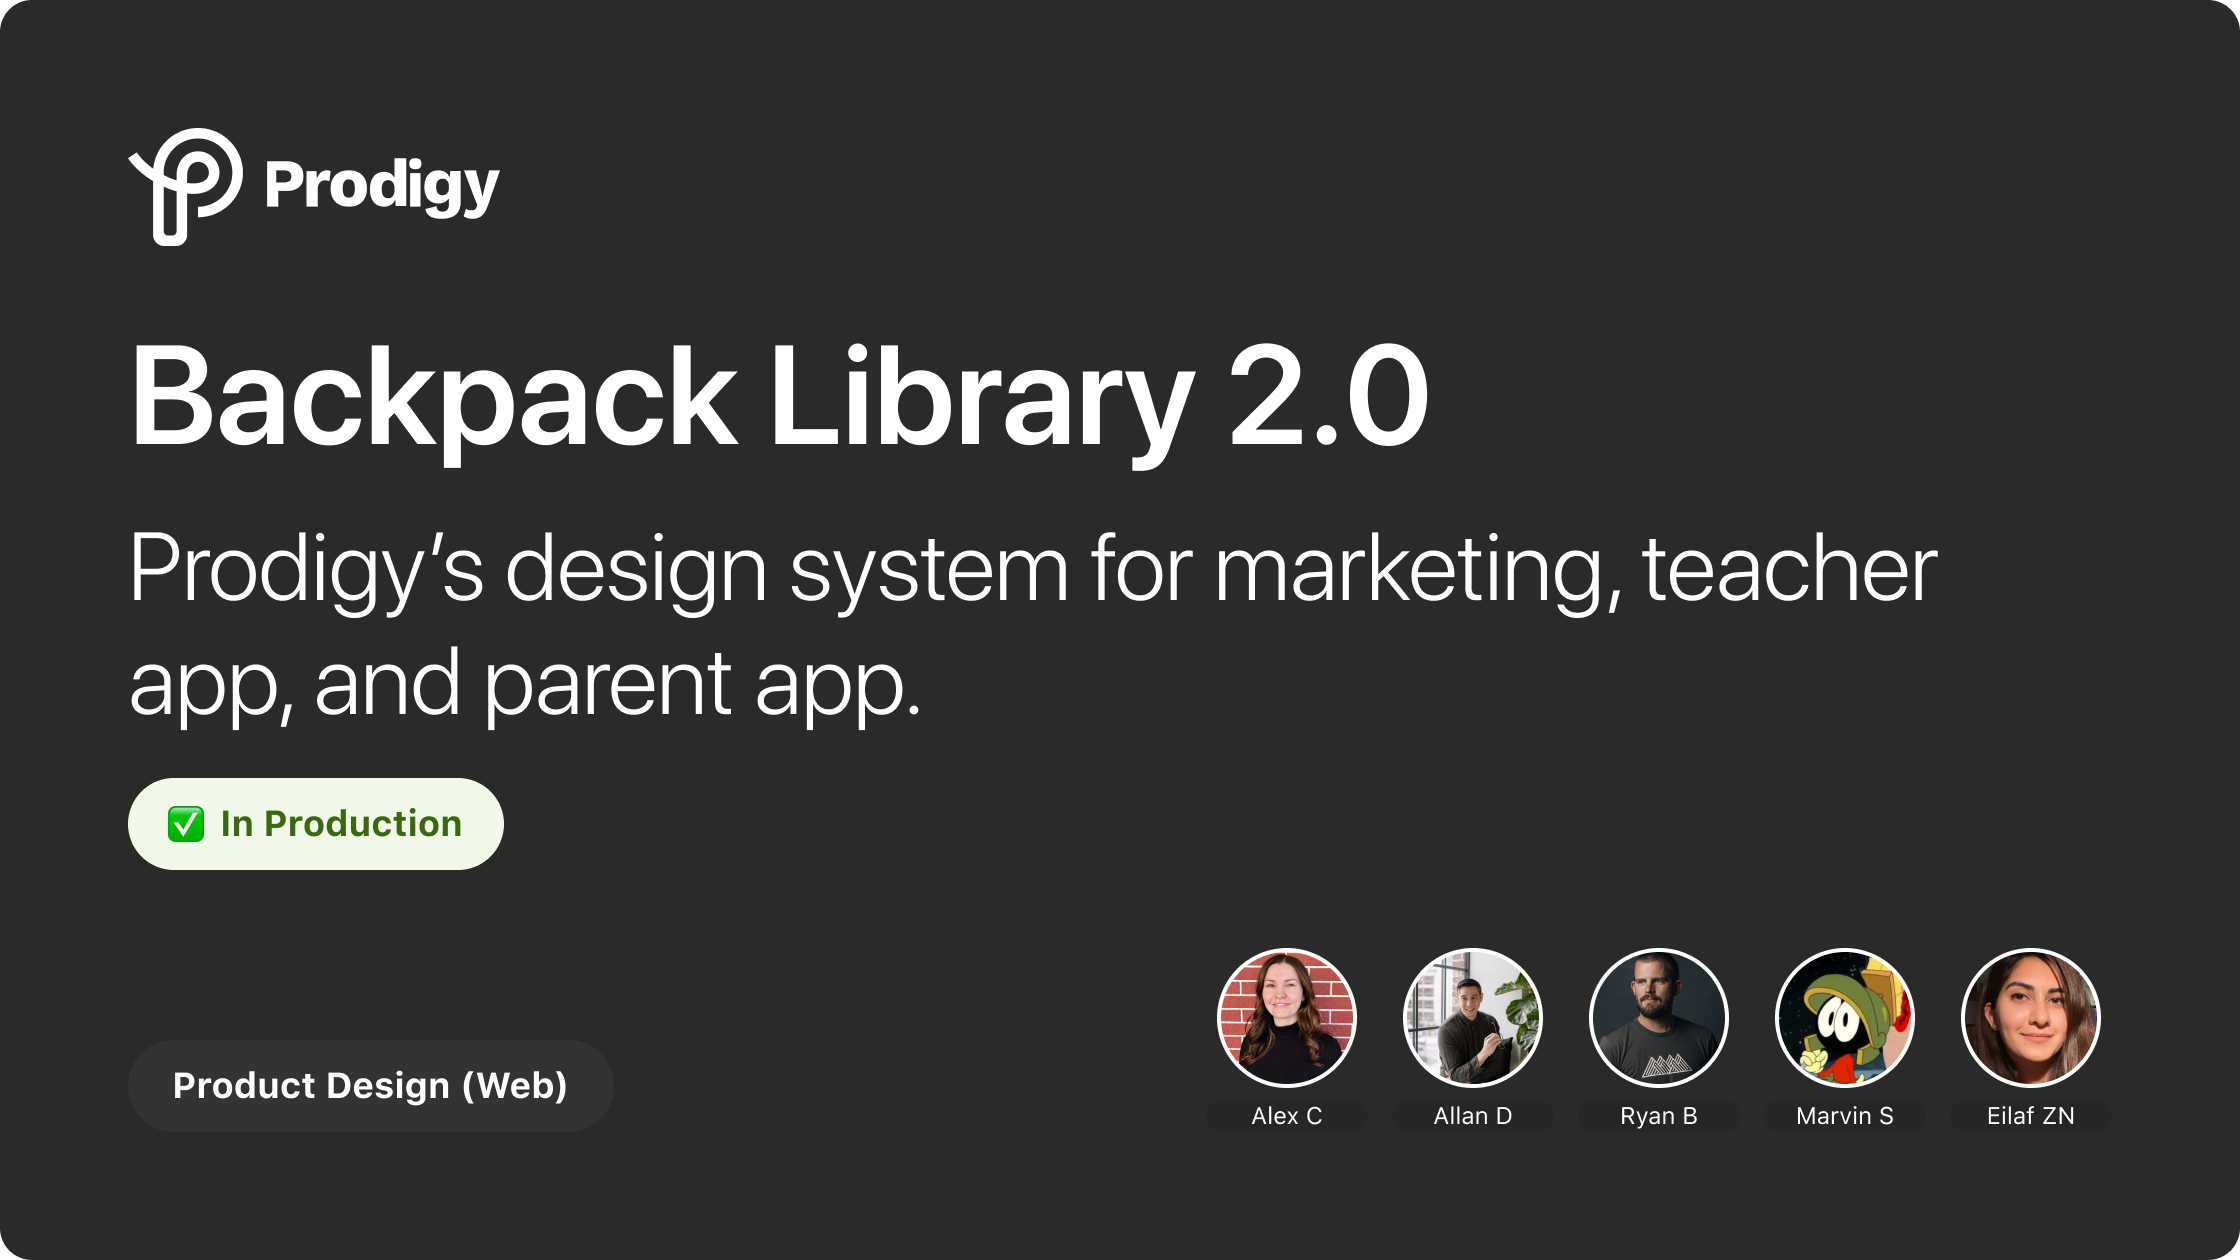
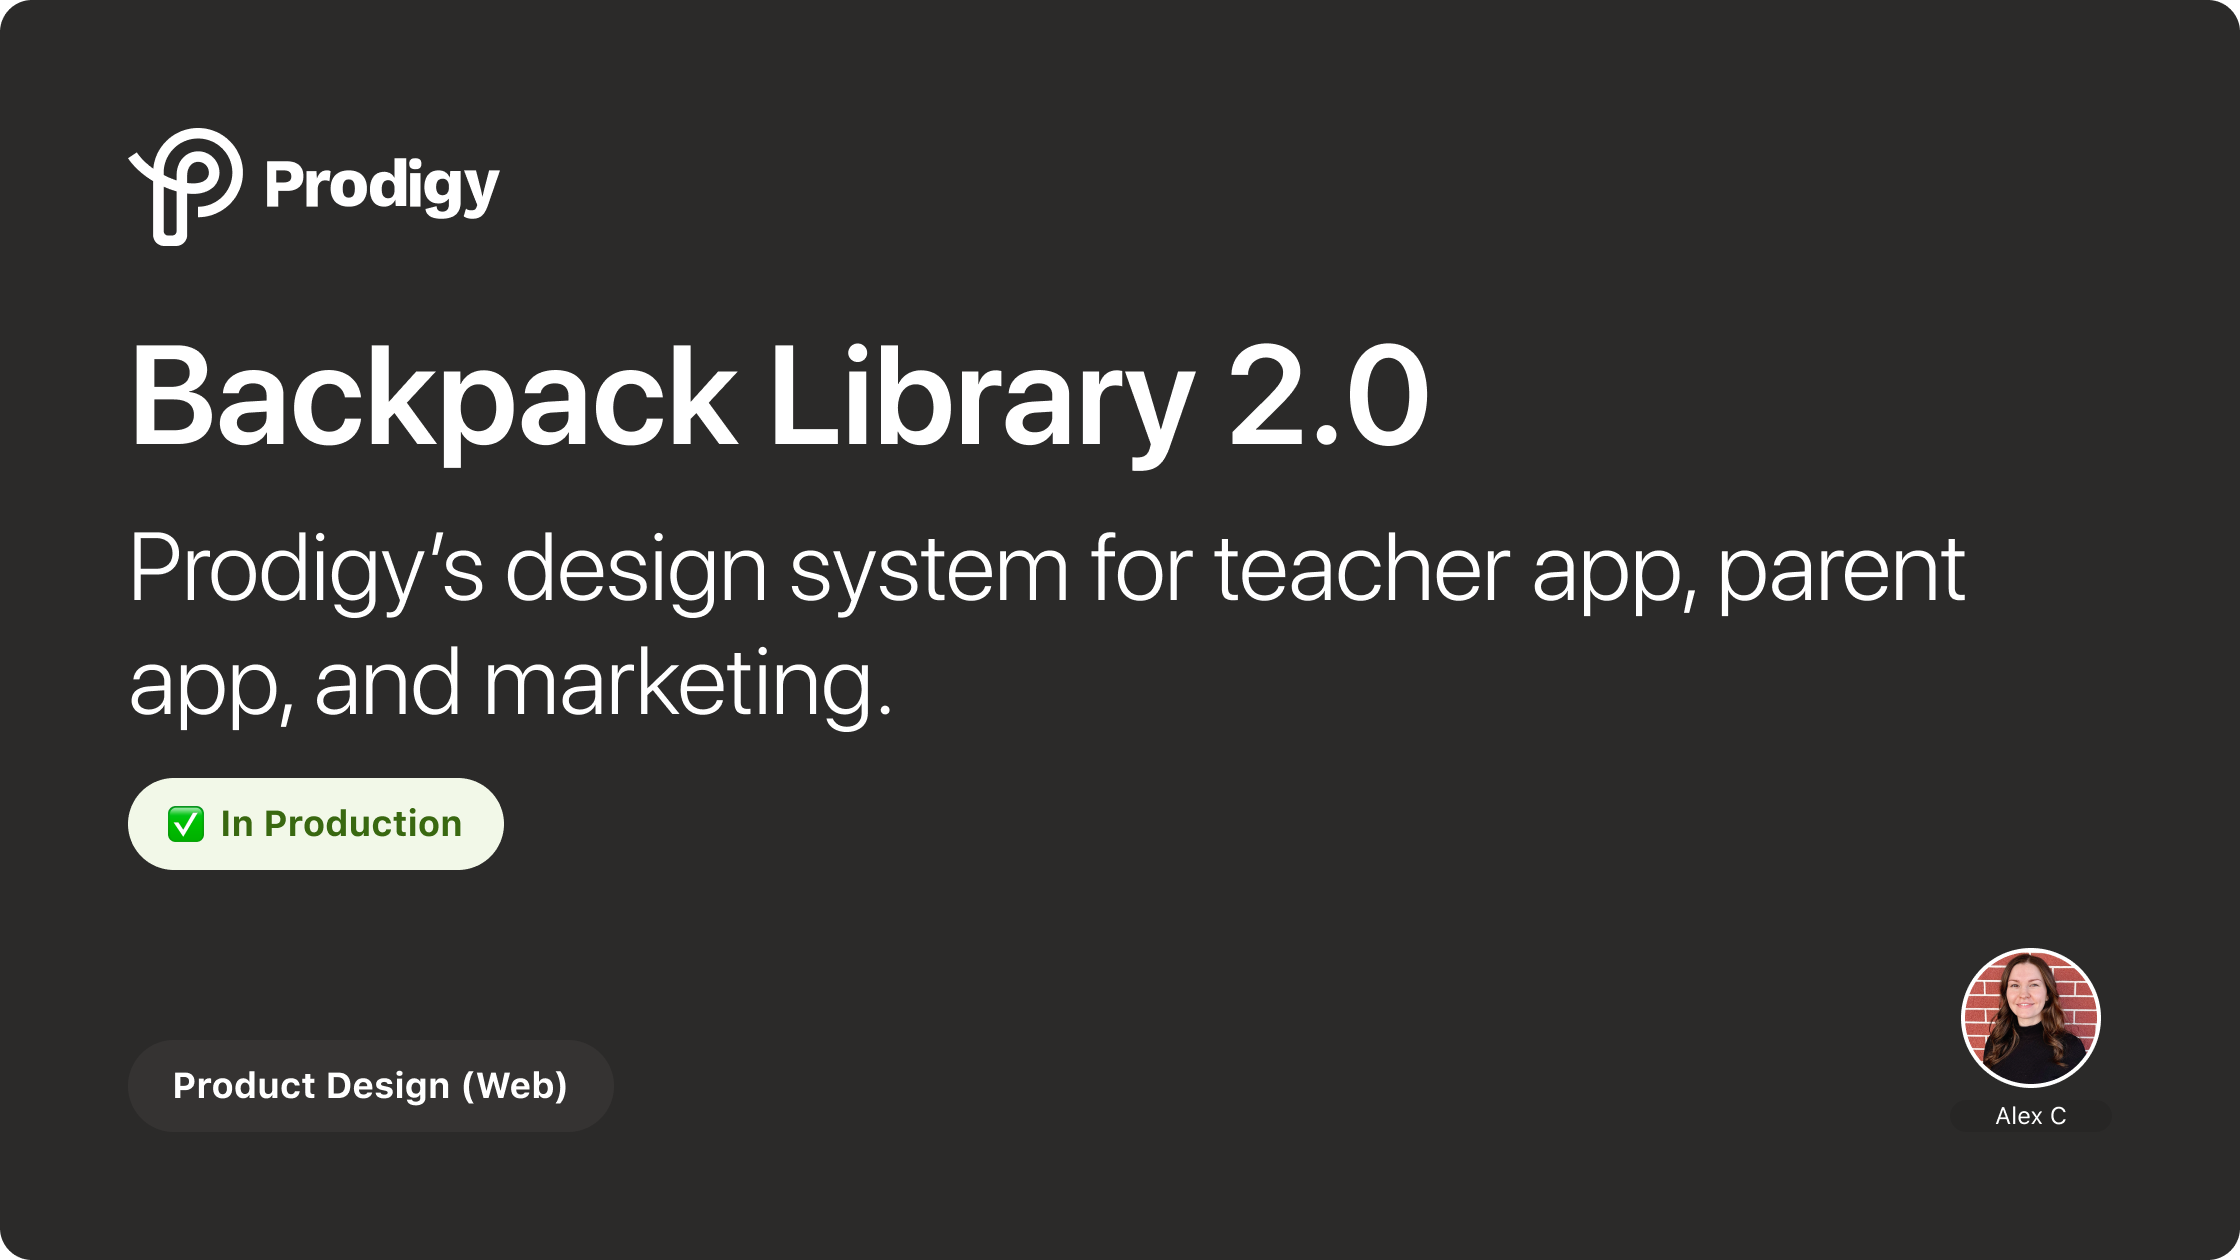
Update copy and hero design system image
- Add comma in hero subtitle
- Refine about section copy

Changed region(s): [[0.5312, 0.7429, 0.9375, 0.8976], [0.5312, 0.4333, 0.875, 0.4952], [0.2188, 0.5262, 0.4062, 0.5881]]

diff --git a/index.html b/index.html
@@ -84,7 +84,7 @@
         </h1>
 
         <p class="hero-subtitle">
-          With 7+ years in product design I’ve helped to shape the future of education at <a href="https://www.prodigygame.com/main-en/" target="_blank" rel="noopener noreferrer">Prodigy</a> and <a href="https://tophat.com/" target="_blank" rel="noopener noreferrer">Top Hat</a>, developed design practices at <a href="https://www.beststartup.ca/40-top-digital-entertainment-startups-and-companies-in-toronto-2021/" target="_blank" rel="noopener noreferrer">Riff</a>, and led the design and launch of a successful e-commerce platform at <a href="https://waterbridge.net/" target="_blank" rel="noopener noreferrer">Waterbridge</a>.
+          With 7+ years in product design, I’ve helped to shape the future of education at <a href="https://www.prodigygame.com/main-en/" target="_blank" rel="noopener noreferrer">Prodigy</a> and <a href="https://tophat.com/" target="_blank" rel="noopener noreferrer">Top Hat</a>, developed design practices at <a href="https://www.beststartup.ca/40-top-digital-entertainment-startups-and-companies-in-toronto-2021/" target="_blank" rel="noopener noreferrer">Riff</a>, and led the design and launch of a successful e-commerce platform at <a href="https://waterbridge.net/" target="_blank" rel="noopener noreferrer">Waterbridge</a>.
         </p>
 
         <div class="hero-cta">
@@ -111,7 +111,7 @@
           <h2 class="mb-6">Designing for impact</h2>
 
           <p class="text-lg mb-6">
-            During my 5 years specializing in EdTech, I've helped millions of students and educators engage with digital learning tools. My background in digital marketing gives me a unique perspective on user behavior and business outcomes.
+            During my 5 years specializing in EdTech, I've helped millions of students and educators engage with digital learning tools. My background in digital marketing gives me a unique perspective into user behaviour and business outcomes.
           </p>
 
           <p class="text-lg mb-6">
